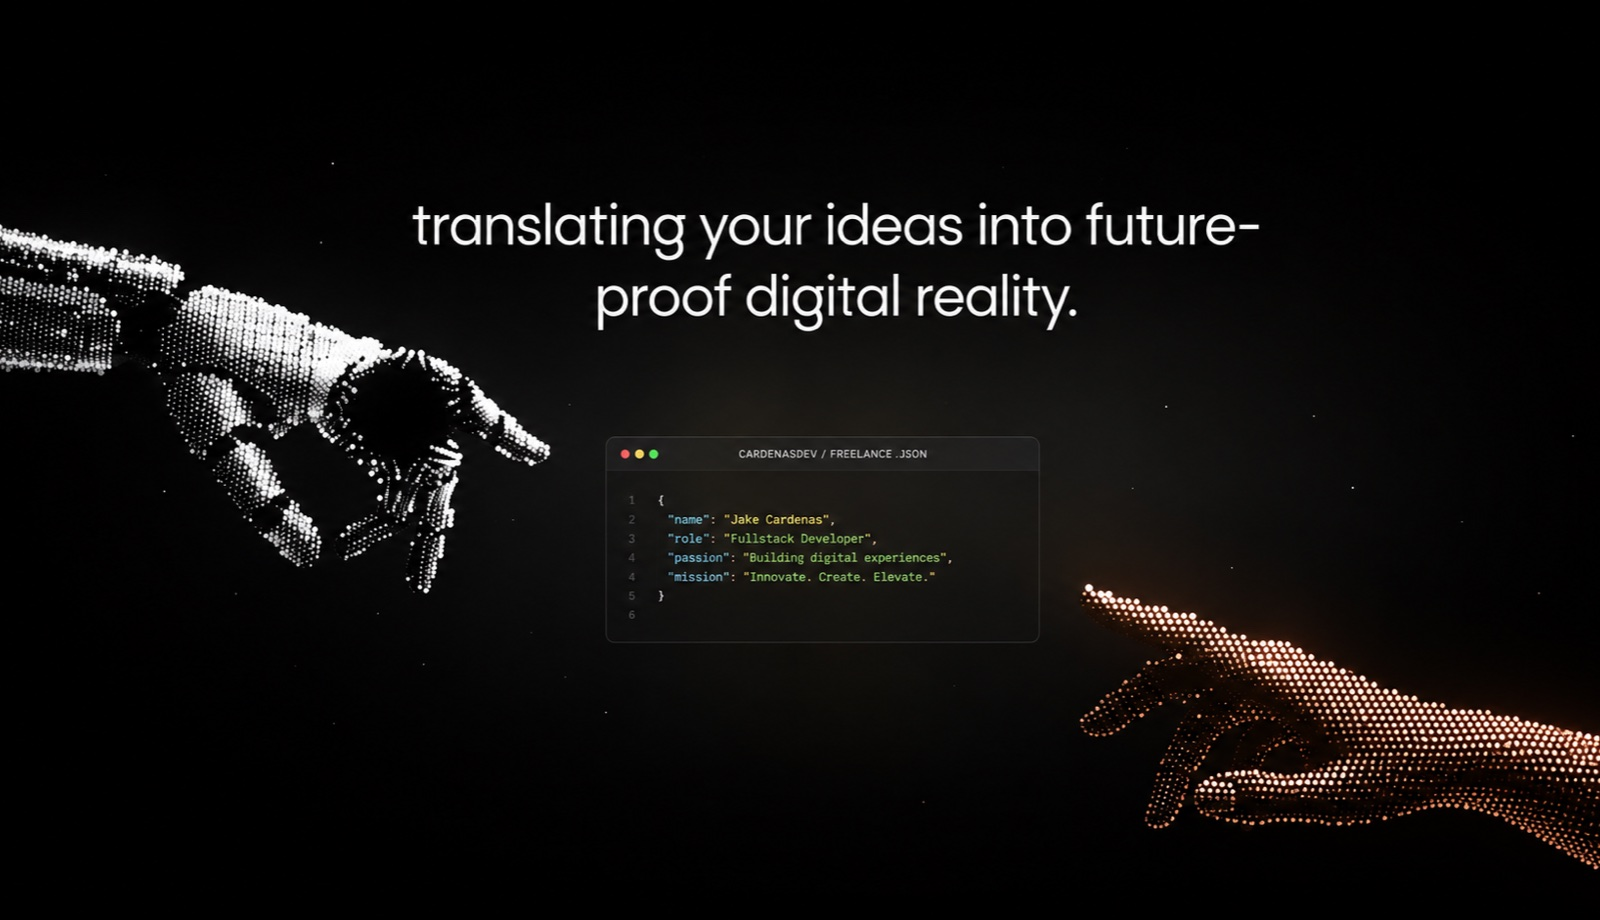
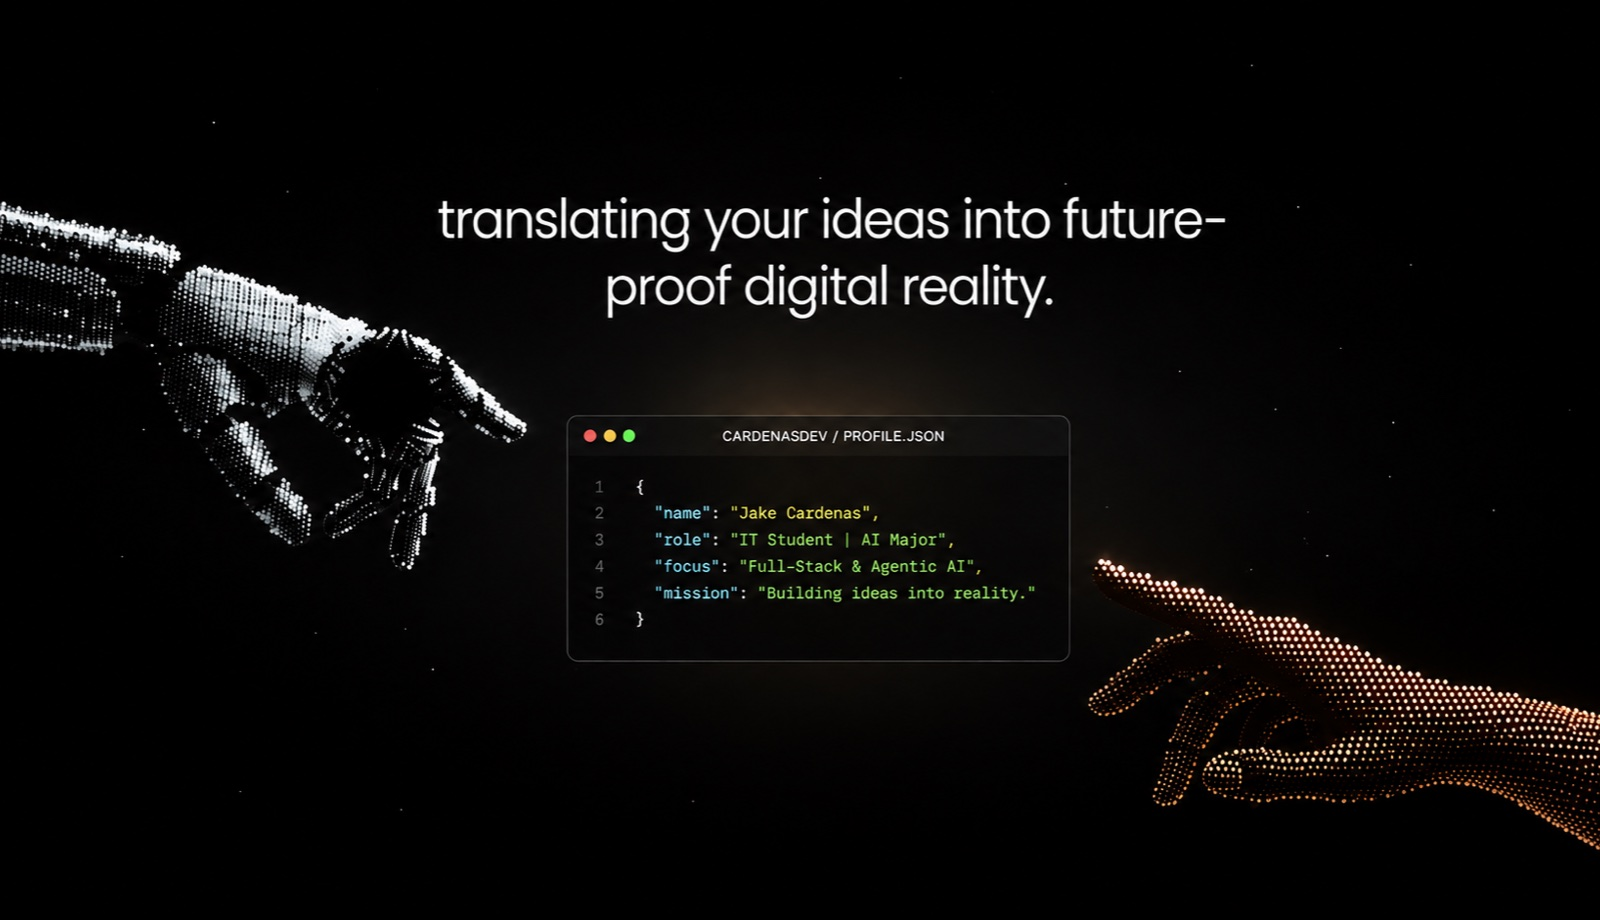
Update key visual image, description, and tool

Changed region(s): [[0.375, 0.5478, 1.0, 0.9435], [0.0, 0.213, 0.6562, 0.6391], [0.25, 0.213, 0.7812, 0.3652]]

diff --git a/index.html b/index.html
@@ -38,7 +38,7 @@
       rel="stylesheet"
       href="https://cdn.jsdelivr.net/npm/simple-icons-font@v13/font/simple-icons.min.css"
     />
-    <link href="./css/style.css?v=48" rel="stylesheet" />
+    <link href="./css/style.css?v=49" rel="stylesheet" />
   </head>
   <body>
     <div class="shell">
@@ -726,23 +726,24 @@
               <div>
                 <h3 class="entry-title">CardenasDev — Key Visual</h3>
                 <div class="entry-meta mono">
-                  GRAPHIC DESIGN<span class="meta-sep">·</span>PERSONAL
-                  BRAND<span class="meta-sep">·</span>ADOBE
+                  GRAPHIC DESIGN<span class="meta-sep">·</span>PORTFOLIO KEY
+                  VISUAL<span class="meta-sep">·</span>PHOTOSHOP
                 </div>
               </div>
             </div>
 
             <p class="entry-body">
-              A key visual for my freelance developer brand. Two halftone hands
-              reach toward each other in a nod to The Creation of Adam, one
-              white and one amber, with a code window between them holding my
-              details as a JSON profile. The line above it reads "translating
-              your ideas into future-proof digital reality."
+              A key visual for my portfolio, inspired by The Creation of Adam,
+              representing the connection between ideas, technology, and my
+              journey exploring AI and full-stack development.
             </p>
 
             <div class="card-label mono">MADE WITH</div>
             <div class="tech-row">
-              <span class="tech mono"><span class="icon-generic"></span>Adobe</span>
+              <span class="tech mono"
+                ><i class="devicon-photoshop-plain colored"></i>Adobe
+                Photoshop</span
+              >
             </div>
 
             <div class="project-carousel" data-carousel>
@@ -750,7 +751,7 @@
                 <div class="carousel-slide active" data-slide="0">
                   <img
                     src="./assets/images/projects/cardenasdev-1.jpg"
-                    alt="CardenasDev key visual: two halftone hands reaching toward a JSON code window"
+                    alt="CardenasDev key visual: two halftone hands reaching toward a JSON profile window"
                     loading="lazy"
                   />
                 </div>
@@ -947,8 +948,8 @@
       </div>
     </div>
 
-    <script src="./js/sound.js?v=48"></script>
-    <script src="./js/halftone-sources.js?v=48"></script>
-    <script src="./js/script.js?v=48"></script>
+    <script src="./js/sound.js?v=49"></script>
+    <script src="./js/halftone-sources.js?v=49"></script>
+    <script src="./js/script.js?v=49"></script>
   </body>
 </html>
